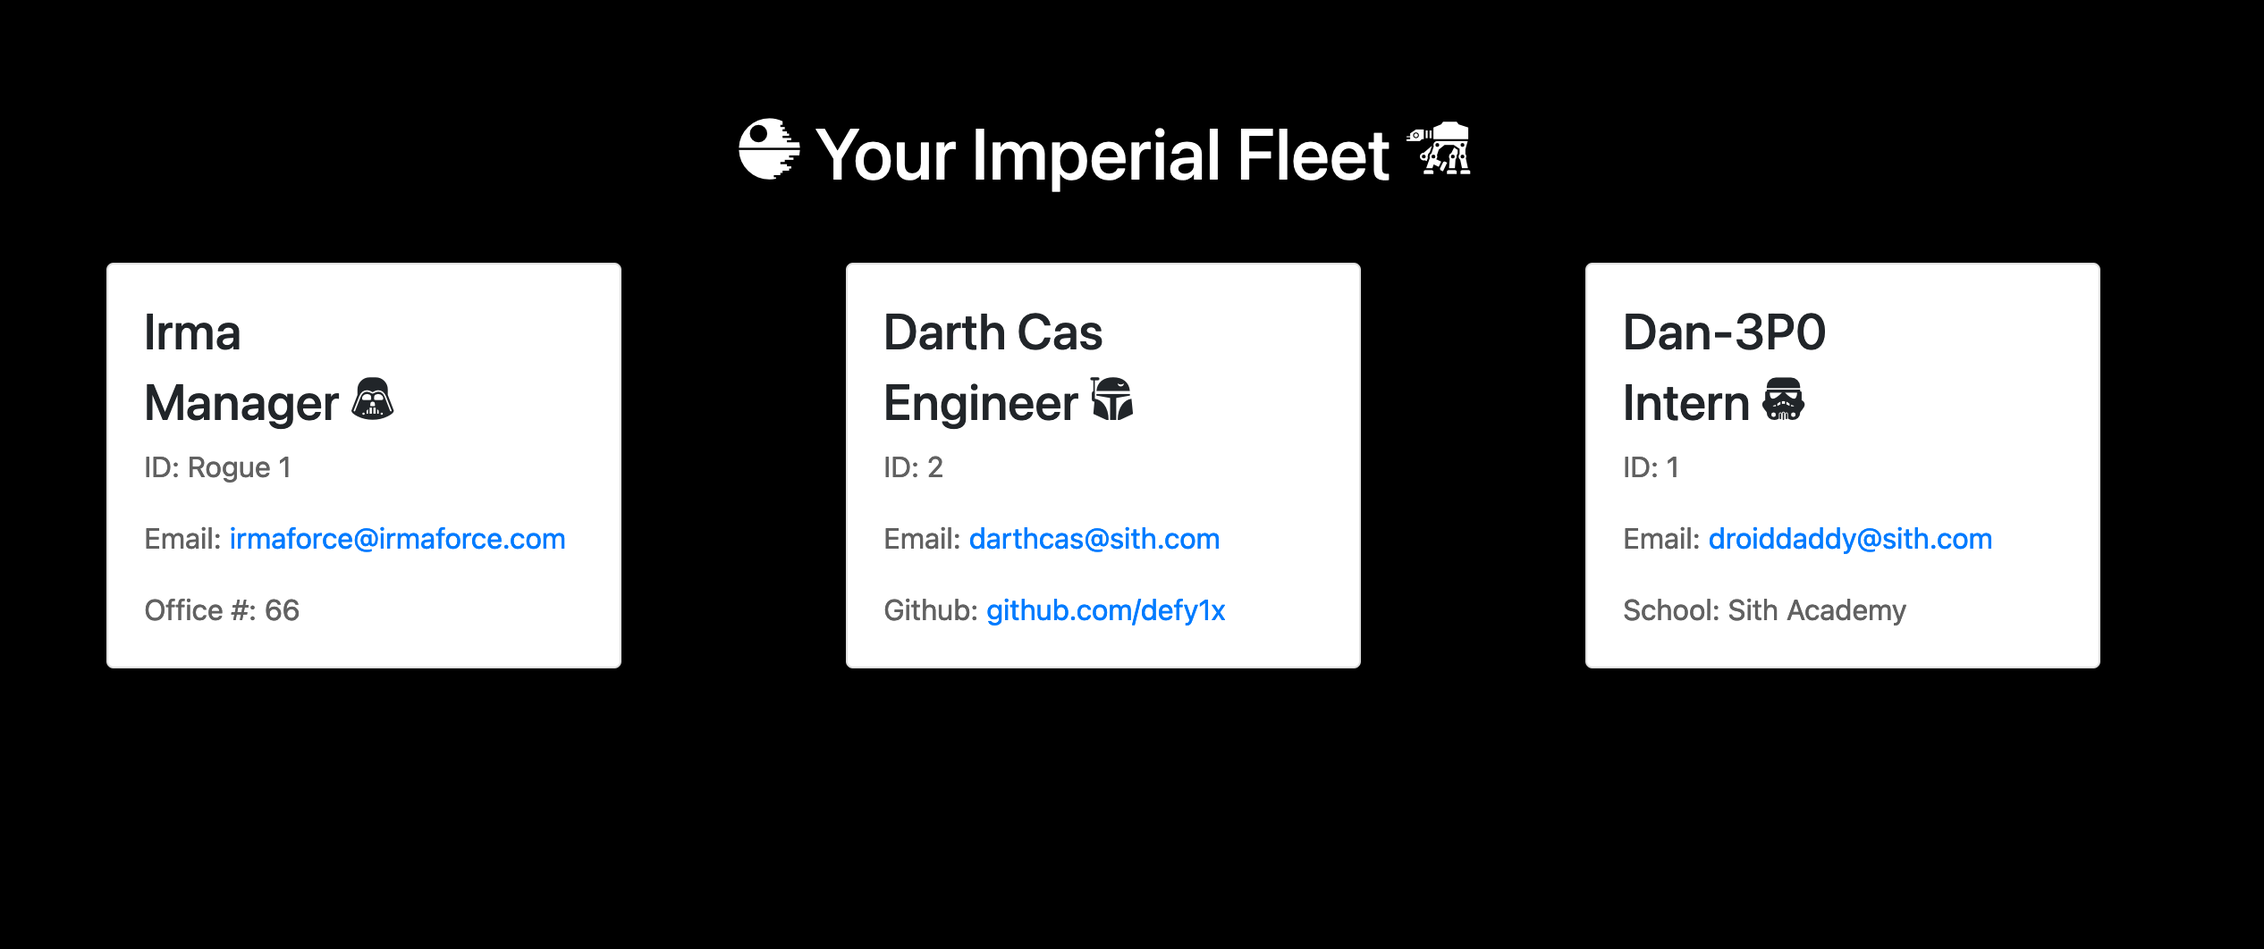
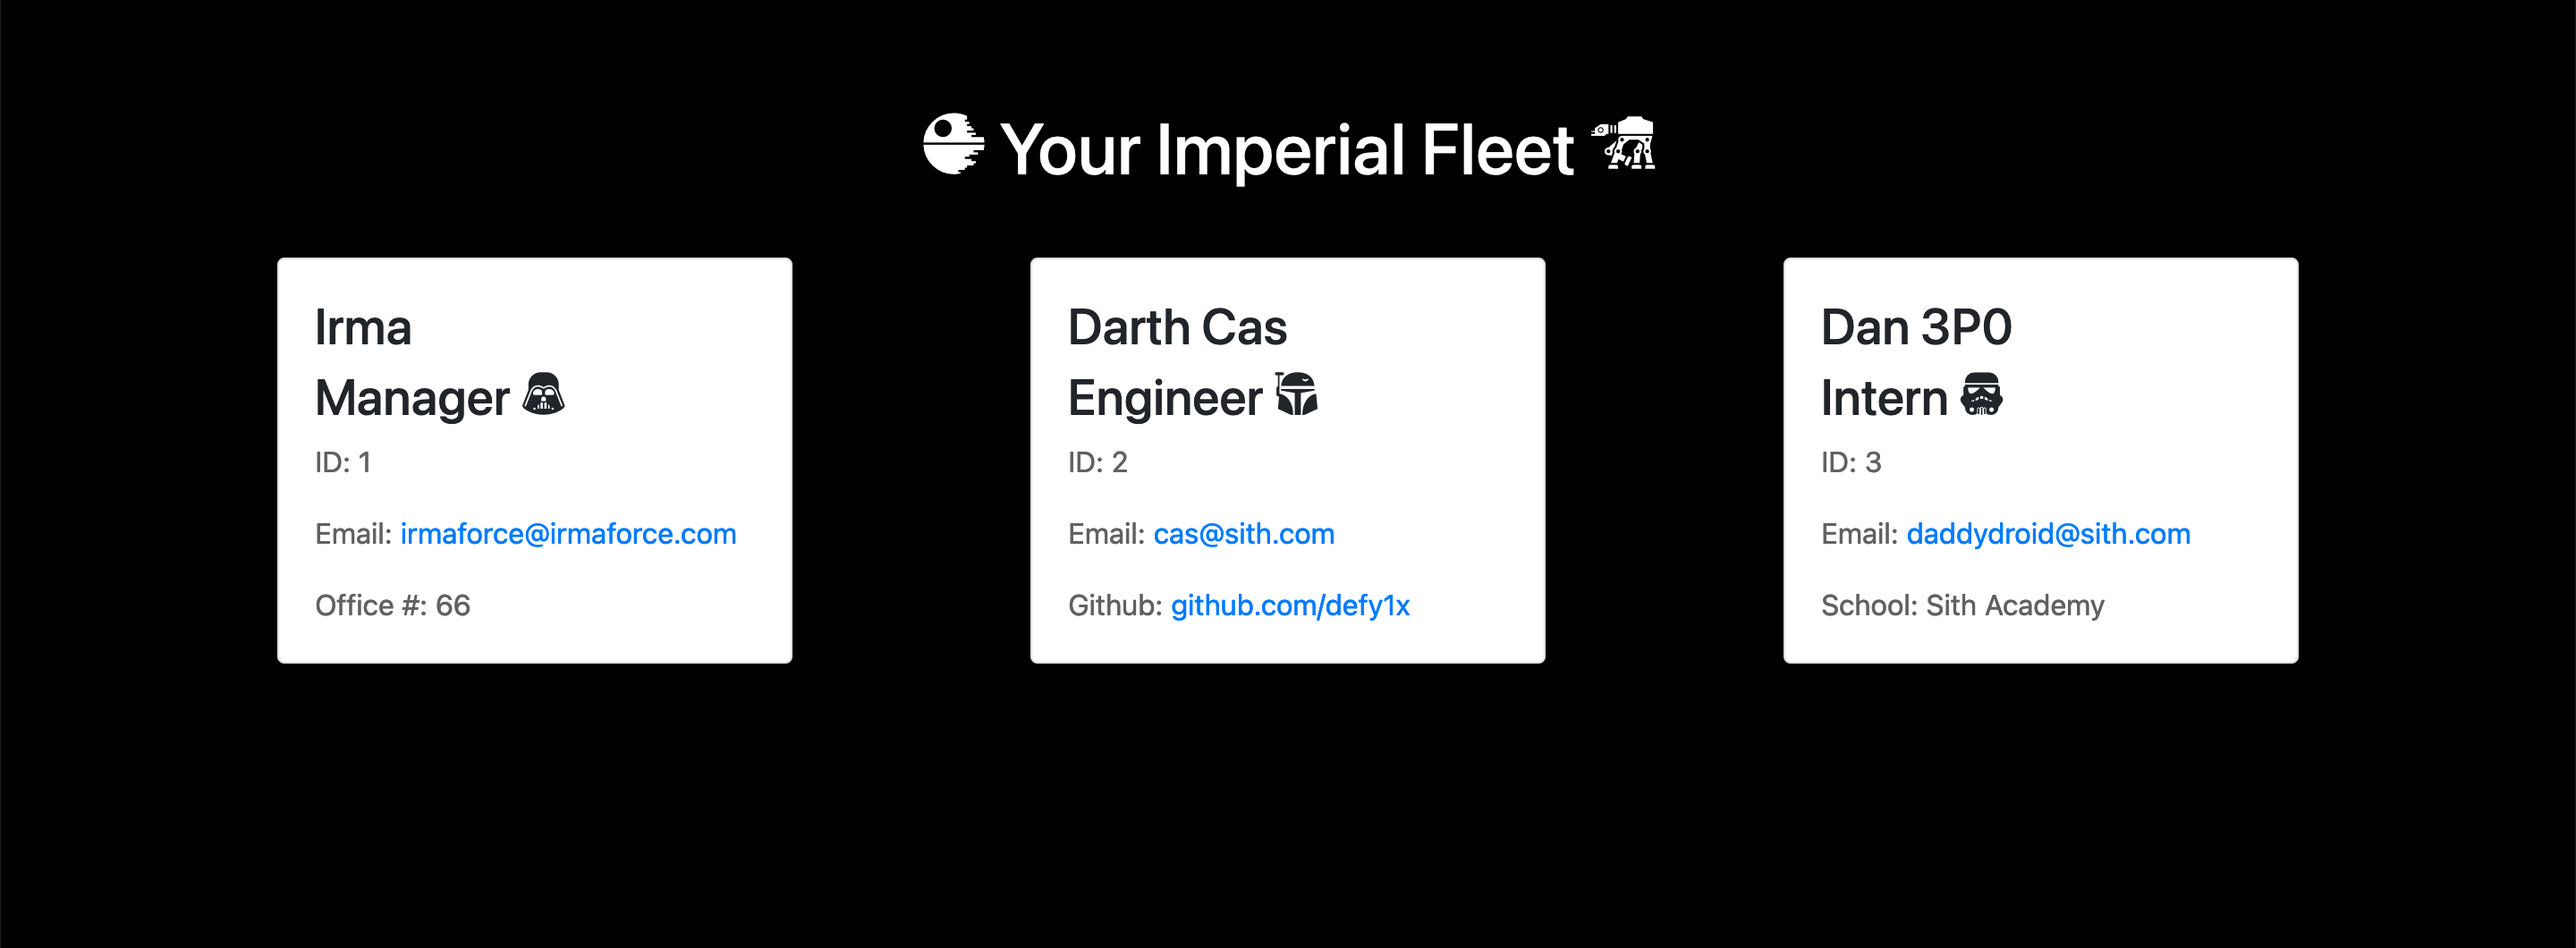
youtube video added with final screenshot

diff --git a/output/team.html b/output/team.html
@@ -1,0 +1,93 @@
+
+  <!DOCTYPE html>
+    <html lang="en">
+        <head>
+            <meta charset="UTF-8">
+            <meta http-equiv="X-UA-Compatible" content="IE=edge">
+            <meta name="viewport" content="width=device-width, initial-scale=1.0">
+            <link rel="stylesheet" href="./starwars-glyphicons/css/starwars-glyphicons.css">
+            <link rel="stylesheet" href="https://maxcdn.bootstrapcdn.com/bootstrap/4.0.0/css/bootstrap.min.css">
+            <link rel="stylesheet" href="https://stackpath.bootstrapcdn.com/font-awesome/4.7.0/css/font-awesome.min.css">
+            <style>
+              body{
+                background-color: black;
+              }
+              .jumbotron {
+                background-color: black;
+              }
+              h1   {
+                padding-bottom: 20px;
+                color: white;
+              }
+              p    {color: #616161;}
+              main {
+                display: flex;
+                justify-content: space-evenly;
+                flex-wrap: wrap;
+              }
+              .card{
+                margin: 10px;
+              }
+            </style>
+            <title>Build Your Fleet</title>
+        </head>
+        <body>
+          <div class="jumbotron">
+            <header>
+                <h1 class="text-center"><i class="swg swg-deathstar"></i> Your Imperial Fleet <i class="swg swg-atat"></i></h1>
+            </header>
+            <main>
+        <div class="card" style="width: 18rem;">
+            <div class="card-body">
+                <h3 class="card-title">Irma</h3>
+                <h3 class="card-subtitle mb-2 text-muted"><h3>Manager <i class="swg swg-darthvader"></i><h3></h3>
+                <p class="card-text">
+                    ID: 1
+                </p>
+                <p class="card-text">
+                    Email:<a href="mailto:irmaforce@irmaforce.com" class="card-link"> irmaforce@irmaforce.com</a>
+                </p>
+                <p class="card-text">
+                    <span>Office #: 66</span>
+      
+                </p>
+            </div>
+        </div>
+        
+        <div class="card" style="width: 18rem;">
+            <div class="card-body">
+                <h3 class="card-title">Darth Cas</h3>
+                <h3 class="card-subtitle mb-2 text-muted"><h3>Engineer <i class="swg swg-bobbafett"></i> <h3></h3>
+                <p class="card-text">
+                    ID: 2
+                </p>
+                <p class="card-text">
+                    Email:<a href="mailto:cas@sith.com" class="card-link"> cas@sith.com</a>
+                </p>
+                <p class="card-text">
+                    <span>Github:<a href="https://github.com/defy1x" target="_blank" class="card-link"> github.com/defy1x</a></span>
+      
+                </p>
+            </div>
+        </div>
+        
+        <div class="card" style="width: 18rem;">
+            <div class="card-body">
+                <h3 class="card-title">Dan 3P0</h3>
+                <h3 class="card-subtitle mb-2 text-muted"><h3>Intern <i class="swg swg-stormtrooper"></i><h3></h3>
+                <p class="card-text">
+                    ID: 3
+                </p>
+                <p class="card-text">
+                    Email:<a href="mailto:daddydroid@sith.com" class="card-link"> daddydroid@sith.com</a>
+                </p>
+                <p class="card-text">
+                    <span>School: Sith Academy</span>
+                </p>
+            </div>
+        </div>
+        
+    </div>
+    </main>
+    </body>
+    </html>

diff --git a/README.md b/README.md
@@ -48,7 +48,7 @@ This homework was rather complex as it was my first time doing TDD and using jes
 
 #Links
 ## Deployed Link (Youtube Video)
-Coming shortly.
+https://www.youtube.com/watch?v=IvfdiqajXOI
 
 #Usage
 ## Final screenshot
